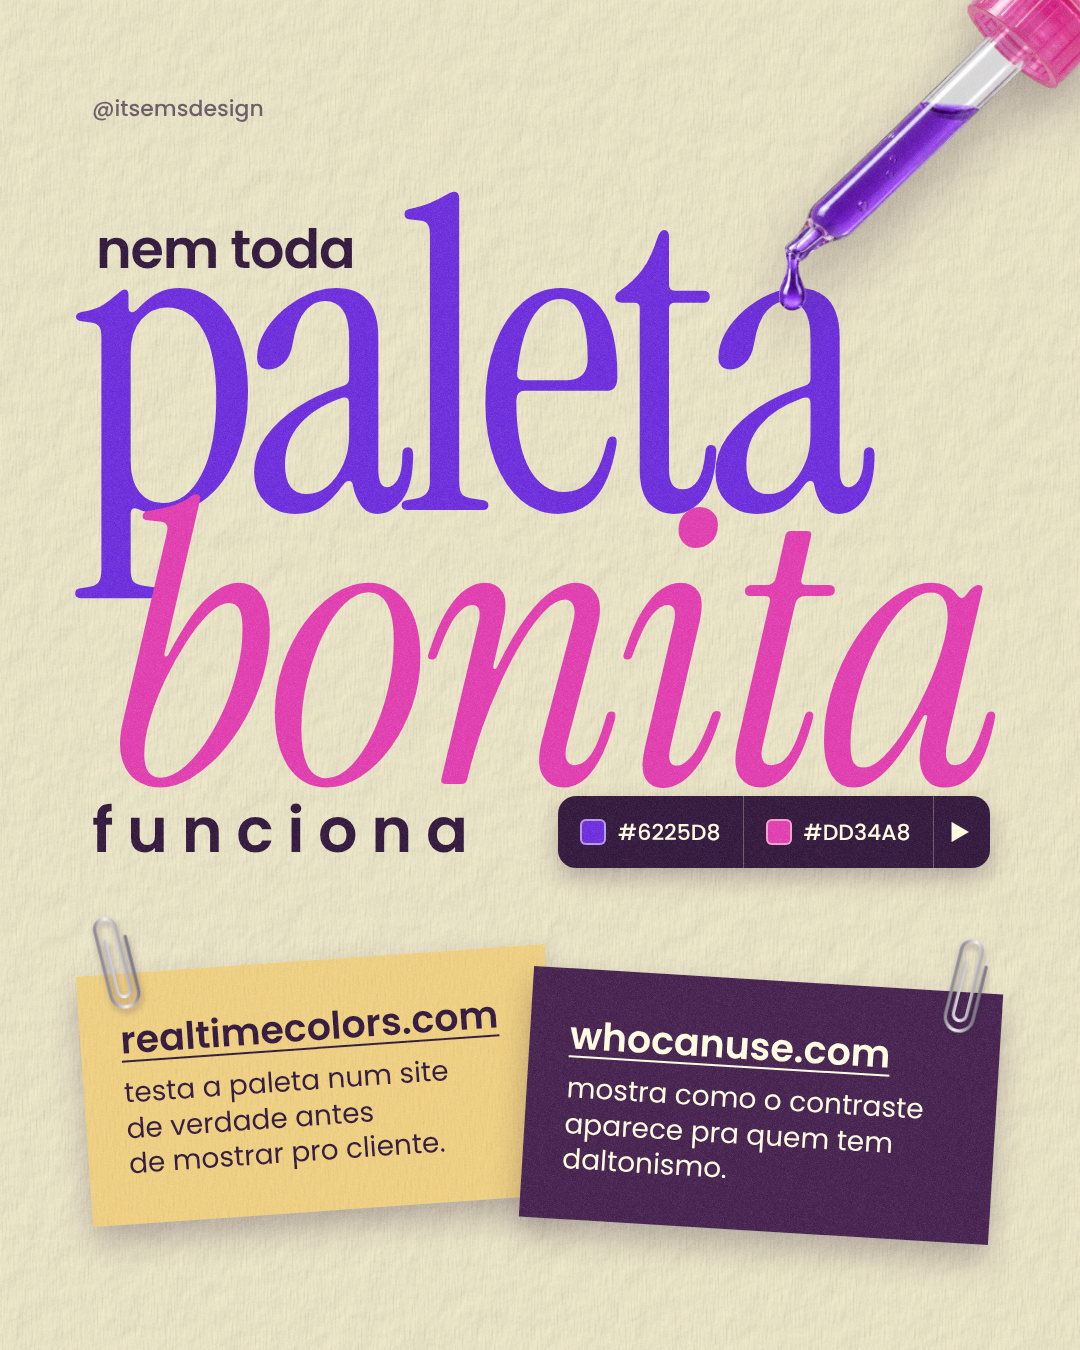
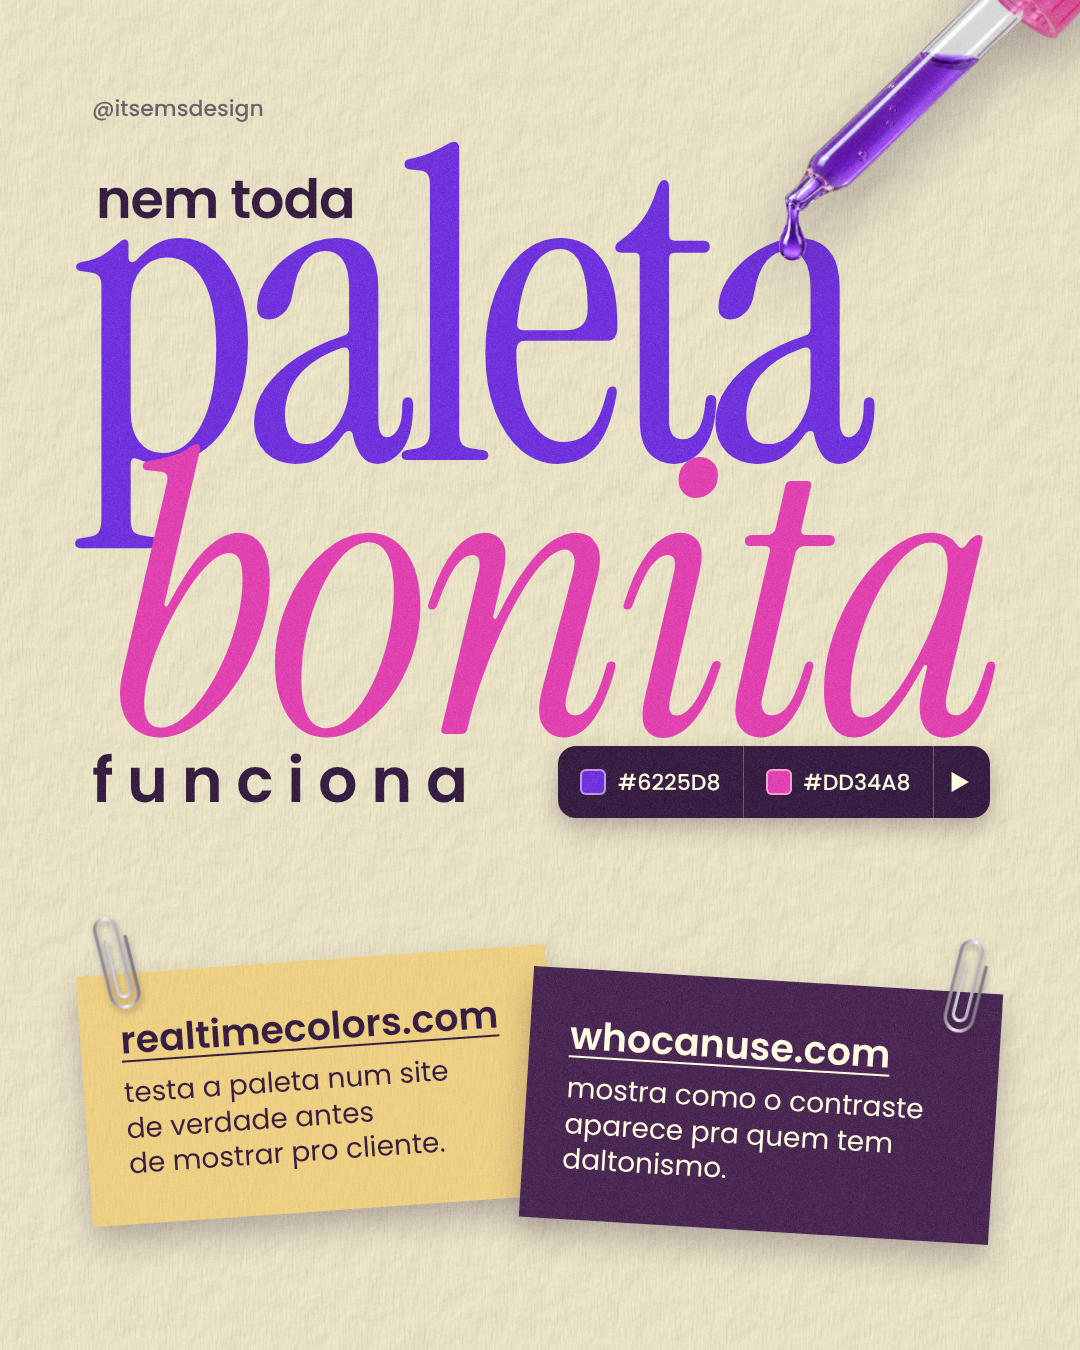
EMS figurinhas raras v4: título da página 4 mais alto
Claude-Session: https://claude.ai/code/session_01CmCiKB9wFc4qQovptupnZT

Changed region(s): [[0.0611, 0.0, 1.0, 0.6533], [0.3667, 0.0933, 0.4278, 0.1867], [0.0611, 0.3733, 0.0917, 0.4044]]

diff --git a/Emi/ems-album-figurinhas/projeto/carrossel.html b/Emi/ems-album-figurinhas/projeto/carrossel.html
@@ -200,11 +200,11 @@ const FOLHA = `<div class="abs" style="inset:0;background:var(--ivory-2)"></div>
   const amostra = (cor, hex) => `<span style="display:inline-flex;align-items:center;gap:12px;padding:0 22px"><i style="width:26px;height:26px;border-radius:6px;background:${cor};box-shadow:inset 0 0 0 2px rgba(255,251,222,.5)"></i>${hex}</span>`;
   lamina(3, `
     <div class="abs" style="left:92px;top:92px;font-family:var(--sans);font-weight:500;font-size:22px;color:rgba(42,20,51,.7)">@itsemsdesign</div>
-    <div class="abs" id="nemtoda" style="left:96px;top:222px;font-family:var(--sans);font-weight:600;font-size:54px;line-height:1;letter-spacing:-.02em;color:var(--tinta)">nem toda</div>
-    <div class="abs" id="pal" style="left:70px;top:196px;font-family:var(--serif);font-size:430px;line-height:.78;letter-spacing:-.04em;color:var(--violeta)">paleta</div>
-    <div class="abs" style="right:84px;top:500px;font-family:var(--serif);font-style:italic;font-size:390px;line-height:.78;letter-spacing:-.02em;color:var(--pink)">bonita</div>
-    <div class="abs" style="left:92px;top:800px;font-family:var(--sans);font-weight:600;font-size:62px;line-height:1;letter-spacing:.22em;color:var(--tinta)">funciona</div>
-    <div class="abs" style="right:90px;top:796px;display:flex;align-items:center;height:72px;border-radius:18px;background:var(--tinta);color:var(--ivory);font-family:var(--sans);font-weight:500;font-size:22px;box-shadow:0 10px 22px rgba(42,20,51,.3)">
+    <div class="abs" id="nemtoda" style="left:96px;top:172px;font-family:var(--sans);font-weight:600;font-size:54px;line-height:1;letter-spacing:-.02em;color:var(--tinta)">nem toda</div>
+    <div class="abs" id="pal" style="left:70px;top:146px;font-family:var(--serif);font-size:430px;line-height:.78;letter-spacing:-.04em;color:var(--violeta)">paleta</div>
+    <div class="abs" style="right:84px;top:450px;font-family:var(--serif);font-style:italic;font-size:390px;line-height:.78;letter-spacing:-.02em;color:var(--pink)">bonita</div>
+    <div class="abs" style="left:92px;top:750px;font-family:var(--sans);font-weight:600;font-size:62px;line-height:1;letter-spacing:.22em;color:var(--tinta)">funciona</div>
+    <div class="abs" style="right:90px;top:746px;display:flex;align-items:center;height:72px;border-radius:18px;background:var(--tinta);color:var(--ivory);font-family:var(--sans);font-weight:500;font-size:22px;box-shadow:0 10px 22px rgba(42,20,51,.3)">
       ${amostra('var(--violeta)', '#6225D8')}<b style="width:1px;align-self:stretch;background:rgba(255,251,222,.25)"></b>${amostra('var(--pink)', '#DD34A8')}<b style="width:1px;align-self:stretch;background:rgba(255,251,222,.25)"></b><span style="padding:0 20px 0 16px">▶</span></div>
     ${bilhete(84, 960, 470, -4, 'var(--manteiga)', 'var(--tinta)', s1)}${clipe(100, 914, -14)}
     ${bilhete(526, 980, 470, 3.5, 'var(--ameixa)', 'var(--ivory)', s2)}${clipe(950, 938, 14)}
